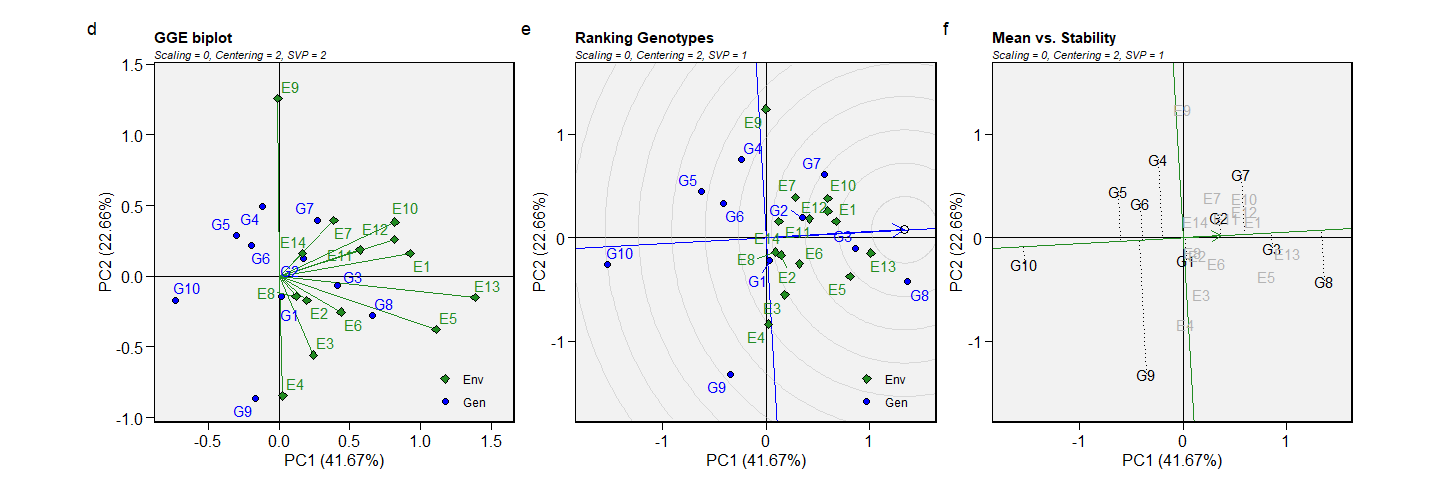
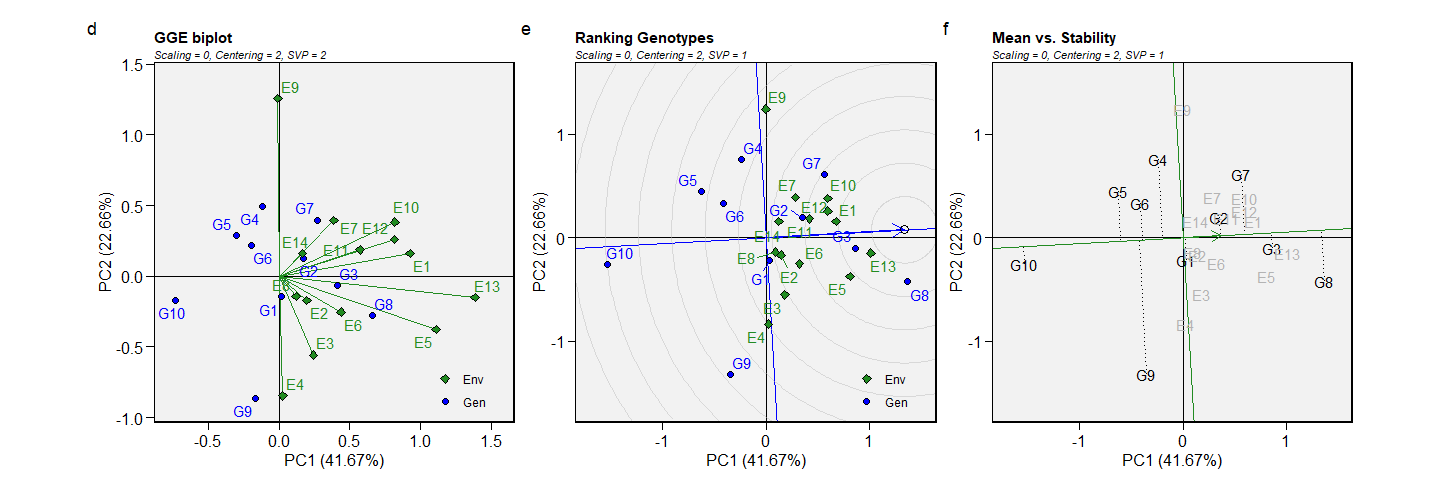
Update readme

diff --git a/README.md b/README.md
@@ -221,7 +221,6 @@ b <- plot_scores(model,
                  col.segm.env = "gray70",
                  col.gen = transparent_color(),
                  highlight = c("G1", "G2"),
-                 col.highlight = "black",
                  axis.expand = 1.5)
 c <- plot_scores(model, type = 4)
 arrange_ggplot(a, b, c, tag_levels = "a", nrow = 1)
